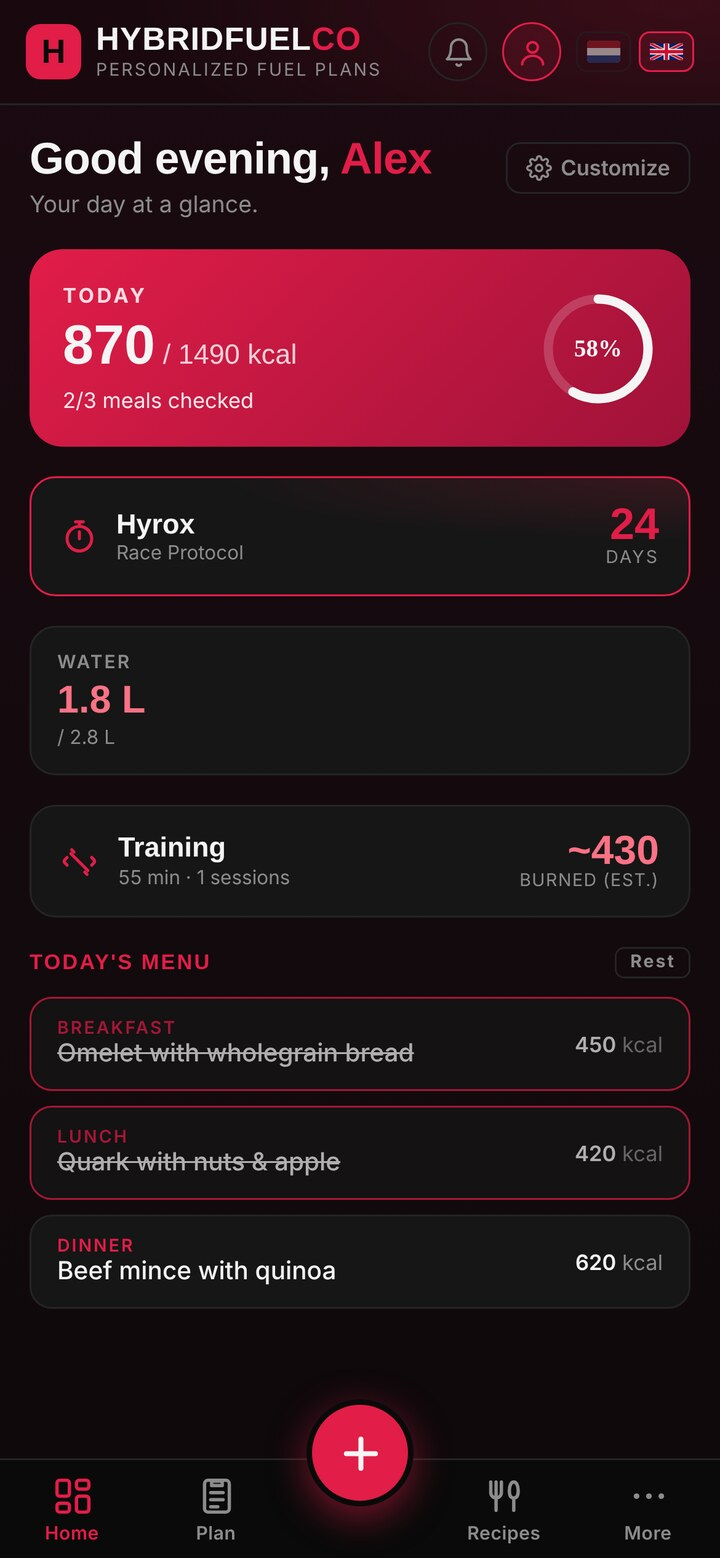
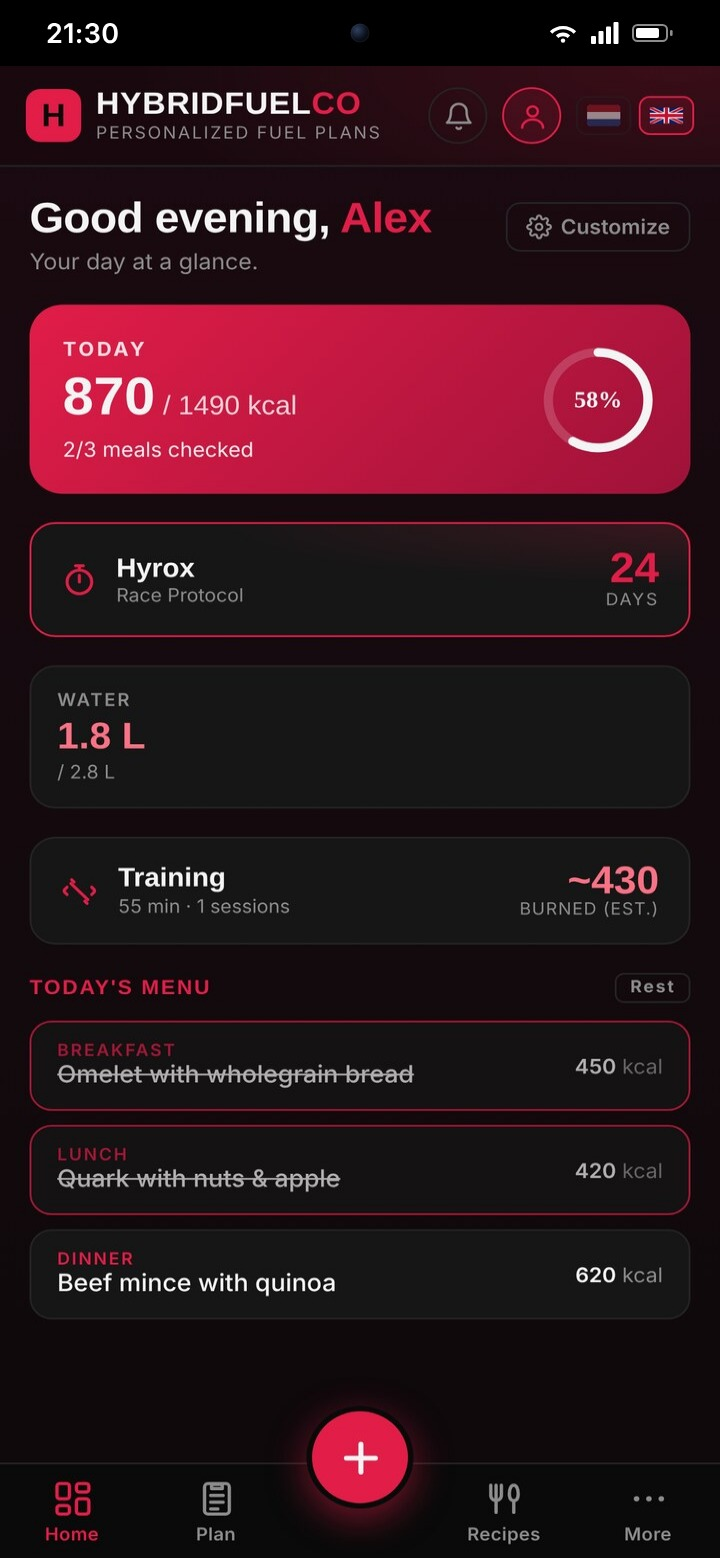
mockup: echte statusbalk in telefoon (tijd/wifi/batterij + camera-notch)
Statusbalk ingebakken in app-dashboard.jpg (zwarte balk: 21:30 links,
camera-rondje midden, wifi/signaal/batterij rechts). App minimaal
verticaal geschaald zodat de onderste navigatie heel blijft. Oude losse
island-pil uit index.html + nl/index.html gehaald.

Claude-Session: https://claude.ai/code/session_01H5uYVmLV94JPuP7WTmD2eY

diff --git a/nl/index.html b/nl/index.html
@@ -334,7 +334,6 @@
         <div class="phone">
           <span class="btn-s b-pwr"></span><span class="btn-s b-vol1"></span><span class="btn-s b-vol2"></span>
           <div class="scr">
-            <div class="island"></div>
             <img src="../img/app-dashboard.jpg" alt="HybridFuelCo app dashboard — je dag in één oogopslag" loading="lazy">
             <div class="gloss"></div>
           </div>

diff --git a/index.html b/index.html
@@ -334,7 +334,6 @@
         <div class="phone">
           <span class="btn-s b-pwr"></span><span class="btn-s b-vol1"></span><span class="btn-s b-vol2"></span>
           <div class="scr">
-            <div class="island"></div>
             <img src="img/app-dashboard.jpg" alt="HybridFuelCo app dashboard — your day at a glance" loading="lazy">
             <div class="gloss"></div>
           </div>
